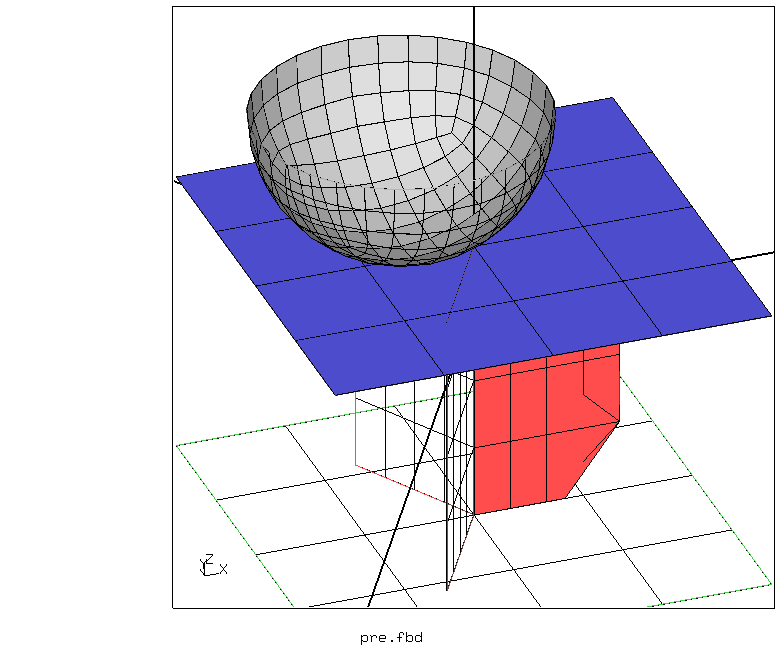
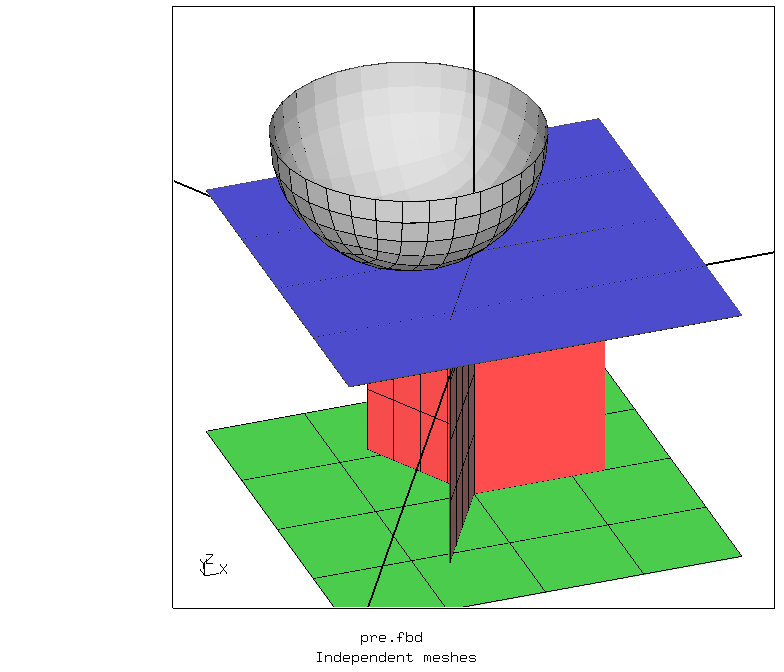
test with cgx 2.13

diff --git a/Contact/Shell1/README.md b/Contact/Shell1/README.md
@@ -1,5 +1,5 @@
 # Shell Assembly
-Tested with CGX/CCX 2.12
+Tested with CGX 2.13/CCX 2.12
 
 + Shell assembly with edge to face tied Lagrange contact
 + Indenter with surface-to surface penalty contact
@@ -15,10 +15,22 @@ Tested with CGX/CCX 2.12
 A minimal sandwich structure is built with two skin sheets and a honeycomb core.
 The structure is supported at the edges of the bottom skin.
 The spherical indenter loads the upper skin.
+
+Parameter | Value | Description
+:---      | :---  | :--
+`rc`      | 10    | Width of the core sheets in mm
+`tc`      | 1     | Thickness of the core sheets in mm (inactive)
+`hc`      | 10    | Thickness of the core in mm
+`ls`      | 30    | Edge length of the face sheets in mm
+`ts`      | 1     | Thickness of the face sheets in mm
+`ri`      | 10    | Radius of the indenter in mm
+`xi`      | -5    | Displacement in x-direction (eccentricity) of the indenter in mm
+
+
 ```
 > cgx -b pre.fbd
 ```
-<img src="Refs/model.png" width="400">
+<img src="Refs/model.png" width="400"><img src="Refs/sets.png" width="400">
 
 ## Solving
 All nodes of the indenter are moved downwards in a static step with default solution controls.
@@ -35,4 +47,5 @@ Create a shaded image of the deformed structure
 > cgx -b post.fbd
 ```
 
-<img src="Refs/def1.png" width="400" title="Deformed geometry"><img src="Refs/worstPS1.png" width="400" title="Worst principal stress">
+<img src="Refs/def1.png" width="400" title="Deformed geometry">
+<img src="Refs/worstPS1.png" width="400" title="Worst principal stress"><img src="Refs/worstPS2.png" width="400" title="Worst principal stress">
